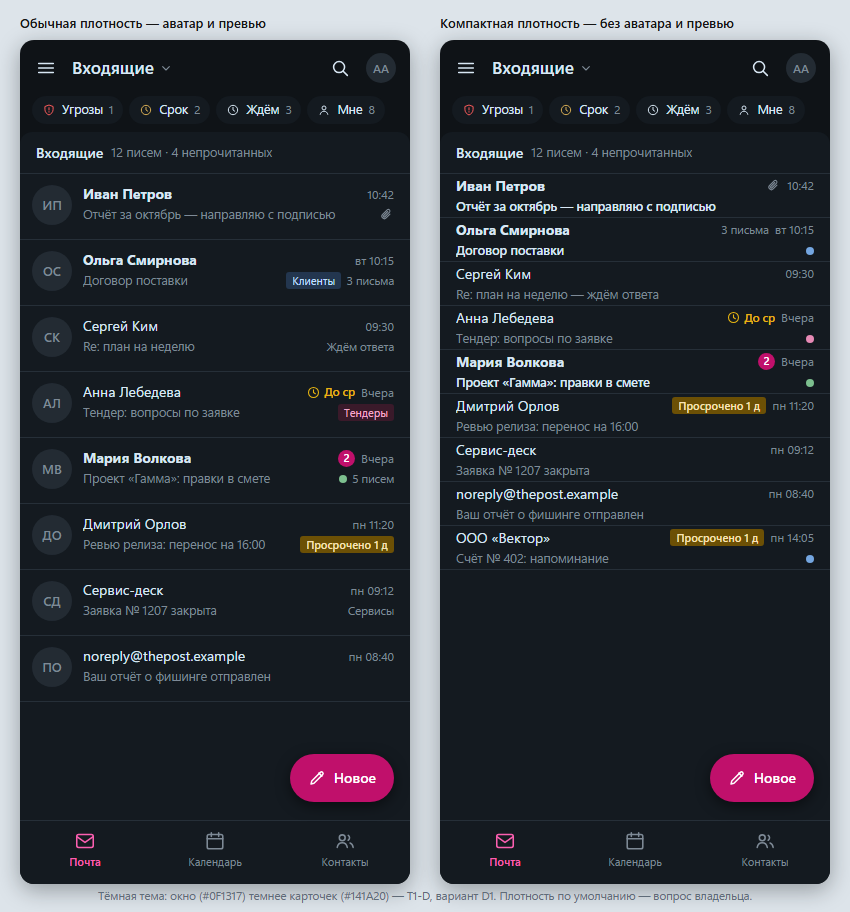
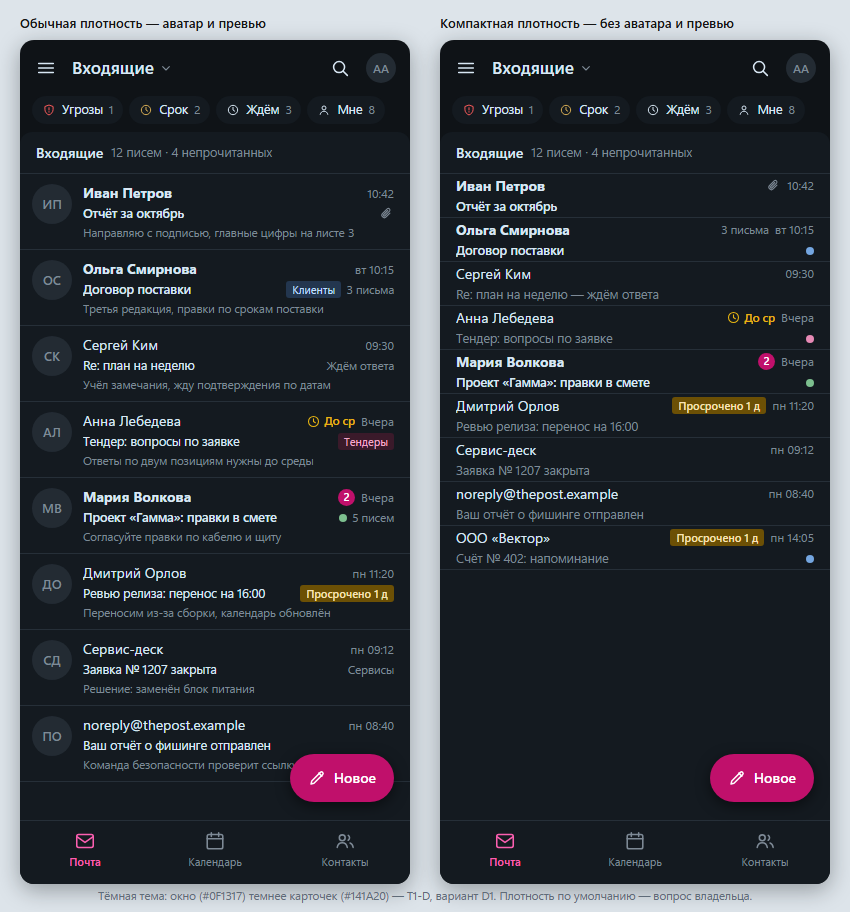
WEB-дизайн: правки по визуальной приёмке — итог таблицы, линия «сейчас» акцентом, вложение и превью плотностей
1) «Монтаж, этап 1» 300 000,00: строки таблицы сходятся с «Итого 454 260,00» (кадры 01, 02, 03, 05). 2) Линия «сейчас 13:20» в ленте дня — акцентом (светлая #E3107F, тёмная приглушённая #D2569A), не красная: красный остался только на безопасности (кадры 01, 03). 3) Кадр 05: вложение «Договор_поставки_ред3.docx» (как в 01), линия «сейчас» добавлена в мобильную ленту дня. 4) Кадр 06: «Обычная» — аватар, тема и текст превью; «Компактная» — только отправитель и тема. README обновлён.

diff --git a/docs/design/webmail/06-mobile-themes.html b/docs/design/webmail/06-mobile-themes.html
@@ -49,7 +49,7 @@ body{background:#DDE4EA;font:13px/1.4 "Segoe UI Variable Text","Segoe UI",-apple
 .lhead{height:42px;display:flex;align-items:center;gap:8px;padding:0 16px;border-bottom:1px solid var(--div);font-weight:600;font-size:14px;flex:none;white-space:nowrap}
 .lhead .sec{color:var(--t2);font-weight:400;font-size:12.5px;flex:1;min-width:0;overflow:hidden;text-overflow:ellipsis}
 .rows{flex:1;overflow:hidden}
-.msg{border-bottom:1px solid var(--div);display:flex;gap:11px;align-items:flex-start;padding:10px 16px 10px 12px;height:66px}
+.msg{border-bottom:1px solid var(--div);display:flex;gap:11px;align-items:flex-start;padding:9px 16px 9px 12px;height:76px}
 .msg .ava{width:40px;height:40px;border-radius:20px;background:var(--fill);color:var(--t2);font-size:13px;font-weight:600;display:flex;align-items:center;justify-content:center;flex:none;margin-top:1px}
 .msg .mid{flex:1;min-width:0}
 .msg .l1{display:flex;align-items:center;gap:6px;height:20px}
@@ -57,6 +57,9 @@ body{background:#DDE4EA;font:13px/1.4 "Segoe UI Variable Text","Segoe UI",-apple
 .msg.unread .l1 .from{font-weight:700}
 .msg .l1 .time{color:var(--t2);font-size:12px;flex:none}
 .msg .l2{display:flex;align-items:center;gap:6px;margin-top:2px}
+.msg .l3{display:block;color:var(--t2);font-size:11.5px;line-height:15px;margin-top:2px;white-space:nowrap;overflow:hidden;text-overflow:ellipsis}
+.msg .thm{color:var(--t1);font-size:12.5px;flex:1;min-width:0;white-space:nowrap;overflow:hidden;text-overflow:ellipsis}
+.msg.unread .thm{font-weight:600}
 .msg .subj{color:var(--t2);font-size:12.5px;flex:1;min-width:0;white-space:nowrap;overflow:hidden;text-overflow:ellipsis}
 .msg .ends{display:flex;align-items:center;gap:5px;flex:none}
 .msg .st{color:var(--t2);font-size:11.5px}
@@ -122,56 +125,64 @@ body{background:#DDE4EA;font:13px/1.4 "Segoe UI Variable Text","Segoe UI",-apple
         <span class="ava">ИП</span>
         <span class="mid">
           <span class="l1"><span class="from">Иван Петров</span><span class="time">10:42</span></span>
-          <span class="l2"><span class="subj">Отчёт за октябрь — направляю с подписью</span><span class="ends"><svg class="i xs" style="color:var(--t2)"><use href="#i-clip"/></svg></span></span>
+          <span class="l2"><span class="thm">Отчёт за октябрь</span><span class="ends"><svg class="i xs" style="color:var(--t2)"><use href="#i-clip"/></svg></span></span>
+          <span class="l3">Направляю с подписью, главные цифры на листе 3</span>
         </span>
       </div>
       <div class="msg unread">
         <span class="ava">ОС</span>
         <span class="mid">
           <span class="l1"><span class="from">Ольга Смирнова</span><span class="time">вт 10:15</span></span>
-          <span class="l2"><span class="subj">Договор поставки</span><span class="ends"><span class="chip" style="--cchip-bg:var(--catblue-bg);--cchip-tx:var(--catblue-tx)">Клиенты</span><span class="st">3 письма</span></span></span>
+          <span class="l2"><span class="thm">Договор поставки</span><span class="ends"><span class="chip" style="--cchip-bg:var(--catblue-bg);--cchip-tx:var(--catblue-tx)">Клиенты</span><span class="st">3 письма</span></span></span>
+          <span class="l3">Третья редакция, правки по срокам поставки</span>
         </span>
       </div>
       <div class="msg">
         <span class="ava">СК</span>
         <span class="mid">
           <span class="l1"><span class="from">Сергей Ким</span><span class="time">09:30</span></span>
-          <span class="l2"><span class="subj">Re: план на неделю</span><span class="ends"><span class="st">Ждём ответа</span></span></span>
+          <span class="l2"><span class="thm">Re: план на неделю</span><span class="ends"><span class="st">Ждём ответа</span></span></span>
+          <span class="l3">Учёл замечания, жду подтверждения по датам</span>
         </span>
       </div>
       <div class="msg">
         <span class="ava">АЛ</span>
         <span class="mid">
           <span class="l1"><span class="from">Анна Лебедева</span><span class="duelbl"><svg class="i xs"><use href="#i-clock"/></svg>До ср</span><span class="time">Вчера</span></span>
-          <span class="l2"><span class="subj">Тендер: вопросы по заявке</span><span class="ends"><span class="chip" style="--cchip-bg:var(--tint);--cchip-tx:var(--tinttext)">Тендеры</span></span></span>
+          <span class="l2"><span class="thm">Тендер: вопросы по заявке</span><span class="ends"><span class="chip" style="--cchip-bg:var(--tint);--cchip-tx:var(--tinttext)">Тендеры</span></span></span>
+          <span class="l3">Ответы по двум позициям нужны до среды</span>
         </span>
       </div>
       <div class="msg unread">
         <span class="ava">МВ</span>
         <span class="mid">
           <span class="l1"><span class="from">Мария Волкова</span><span class="unread-badge">2</span><span class="time">Вчера</span></span>
-          <span class="l2"><span class="subj">Проект «Гамма»: правки в смете</span><span class="ends"><span class="catdot" style="background:var(--igreen)"></span><span class="st">5 писем</span></span></span>
+          <span class="l2"><span class="thm">Проект «Гамма»: правки в смете</span><span class="ends"><span class="catdot" style="background:var(--igreen)"></span><span class="st">5 писем</span></span></span>
+          <span class="l3">Согласуйте правки по кабелю и щиту</span>
         </span>
       </div>
       <div class="msg">
         <span class="ava">ДО</span>
         <span class="mid">
           <span class="l1"><span class="from">Дмитрий Орлов</span><span class="time">пн 11:20</span></span>
-          <span class="l2"><span class="subj">Ревью релиза: перенос на 16:00</span><span class="ends"><span class="chip due">Просрочено 1 д</span></span></span>
+          <span class="l2"><span class="thm">Ревью релиза: перенос на 16:00</span><span class="ends"><span class="chip due">Просрочено 1 д</span></span></span>
+          <span class="l3">Переносим из-за сборки, календарь обновлён</span>
         </span>
       </div>
       <div class="msg">
         <span class="ava">СД</span>
         <span class="mid">
           <span class="l1"><span class="from">Сервис-деск</span><span class="time">пн 09:12</span></span>
-          <span class="l2"><span class="subj">Заявка № 1207 закрыта</span><span class="ends"><span class="st">Сервисы</span></span></span>
+          <span class="l2"><span class="thm">Заявка № 1207 закрыта</span><span class="ends"><span class="st">Сервисы</span></span></span>
+          <span class="l3">Решение: заменён блок питания</span>
         </span>
       </div>
       <div class="msg">
         <span class="ava">ПО</span>
         <span class="mid">
           <span class="l1"><span class="from">noreply@thepost.example</span><span class="time">пн 08:40</span></span>
-          <span class="l2"><span class="subj">Ваш отчёт о фишинге отправлен</span></span>
+          <span class="l2"><span class="thm">Ваш отчёт о фишинге отправлен</span></span>
+          <span class="l3">Команда безопасности проверит ссылку</span>
         </span>
       </div>
     </div>
@@ -204,7 +215,7 @@ body{background:#DDE4EA;font:13px/1.4 "Segoe UI Variable Text","Segoe UI",-apple
       <div class="msg unread">
         <span class="mid">
           <span class="l1"><span class="from">Иван Петров</span><svg class="i xs" style="color:var(--t2)"><use href="#i-clip"/></svg><span class="time">10:42</span></span>
-          <span class="l2"><span class="subj">Отчёт за октябрь — направляю с подписью</span></span>
+          <span class="l2"><span class="subj">Отчёт за октябрь</span></span>
         </span>
       </div>
       <div class="msg unread">

diff --git a/docs/design/webmail/05-reading-mobile.html b/docs/design/webmail/05-reading-mobile.html
@@ -40,7 +40,7 @@ body{
 .read{flex:1;background:var(--panel);border-radius:12px 12px 0 0;overflow:hidden;display:flex;flex-direction:column;min-height:0}
 
 /* полосы безопасности */
-.strip{min-height:30px;border-radius:6px;display:flex;align-items:center;gap:8px;padding:5px 10px;margin:8px 12px 0;font-size:12.5px;flex:none}
+.strip{min-height:30px;border-radius:6px;display:flex;align-items:center;gap:8px;padding:5px 10px;margin:6px 12px 0;font-size:12.5px;flex:none}
 .strip b{font-weight:600}
 .strip .sp{flex:1}
 .strip .lk{color:var(--acc);font-weight:600;white-space:nowrap}
@@ -50,24 +50,24 @@ body{
 .strip.threat .i{color:var(--threattx)}
 
 /* шапка письма */
-.mhead{display:flex;align-items:flex-start;gap:10px;padding:12px 16px 8px;flex:none}
+.mhead{display:flex;align-items:flex-start;gap:10px;padding:10px 16px 6px;flex:none}
 .ava{width:36px;height:36px;border-radius:18px;background:var(--fill);color:var(--t2);font-size:13px;font-weight:600;display:flex;align-items:center;justify-content:center;flex:none}
 .mhead .who{flex:1;min-width:0;line-height:18px}
 .mhead .who b{font-weight:600}
 .mhead .meta{color:var(--t2);font-size:12px;white-space:nowrap;overflow:hidden;text-overflow:ellipsis}
 .mhead .time{color:var(--t2);font-size:12px;white-space:nowrap}
-.tags{display:flex;align-items:center;gap:6px;padding:0 16px 8px;flex:none}
+.tags{display:flex;align-items:center;gap:6px;padding:0 16px 6px;flex:none}
 .chip{font-size:11px;padding:1px 6px;border-radius:3px;background:var(--cchip-bg);color:var(--cchip-tx);white-space:nowrap;flex:none}
 .chip.n{background:var(--fill);color:var(--t2)}
 
 /* вложения */
-.atts{display:flex;gap:6px;padding:0 16px 8px;flex:none}
+.atts{display:flex;flex-wrap:wrap;gap:6px;padding:2px 16px 6px;flex:none}
 .att{height:30px;display:flex;align-items:center;gap:6px;border:1px solid var(--stroke);border-radius:15px;padding:0 10px;font-size:12px;background:var(--panel)}
 .att .sz{color:var(--t2)}
 .att .i{width:14px;height:14px;color:var(--iblue)}
 
 /* карточка приглашения */
-.inv{border:1px solid var(--stroke);border-radius:10px;padding:9px 12px;margin:2px 12px 8px;background:var(--panel);flex:none}
+.inv{border:1px solid var(--stroke);border-radius:10px;padding:8px 12px;margin:2px 12px 6px;background:var(--panel);flex:none}
 .inv .ih{display:flex;align-items:center;gap:7px;margin-bottom:5px}
 .inv .ih .ttl{font-weight:600;font-size:13px;flex:1;min-width:0;white-space:nowrap;overflow:hidden;text-overflow:ellipsis}
 .inv .ih .i{width:16px;height:16px;color:var(--ipink)}
@@ -77,9 +77,11 @@ body{
 .day .lbl{width:74px;color:var(--t2);font-size:11.5px;padding-top:2px}
 .day .lbl b{color:var(--t1);font-weight:600;font-size:12px}
 .hours{display:flex;flex-direction:column;flex:1;border-left:1px solid var(--div);position:relative}
-.hrow{height:20px;border-top:1px solid var(--div);position:relative}
+.hrow{height:18px;border-top:1px solid var(--div);position:relative}
 .hrow:first-child{border-top:none}
 .hrow .hl{position:absolute;left:0;top:1px;font-size:9.5px;color:var(--t2);background:var(--panel);padding-right:3px;line-height:1}
+.nowline{position:absolute;left:0;right:0;height:0;border-top:1.5px solid var(--accbtn);z-index:2}
+.nowline::after{content:"13:20";position:absolute;left:30px;top:-7px;font-size:9px;color:var(--accbtn);background:var(--panel);padding-right:2px;line-height:1}
 .ev{position:absolute;left:40px;right:6px;border-radius:3px;font-size:10px;line-height:1.3;padding:0 5px;overflow:hidden;white-space:nowrap;text-overflow:ellipsis}
 .ev.own{background:var(--own);color:var(--t1)}
 .ev.invite{background:rgba(227,16,127,.16);border:1px dashed var(--accbtn);color:var(--acc);font-weight:600}
@@ -90,8 +92,8 @@ body{
 .ibtn .st-ic{width:15px;height:15px;border-radius:50%;border:1.3px solid currentColor;display:flex;align-items:center;justify-content:center;font-size:10px;line-height:1}
 
 /* тело письма */
-.bodym{flex:1;overflow:hidden;padding:2px 16px 8px;line-height:18px}
-.bodym p{margin:0 0 7px;font-size:13.5px}
+.bodym{flex:1;overflow:hidden;padding:2px 16px 6px;line-height:18px}
+.bodym p{margin:0 0 6px;font-size:13.5px}
 .bodym .sig{color:var(--t2);font-size:12.5px}
 table.spec{border-collapse:collapse;width:100%;margin:2px 0 8px;font-size:11.5px}
 table.spec th{background:var(--quiet);text-align:left;font-weight:600;padding:4px 7px;border:1px solid var(--div)}
@@ -159,7 +161,7 @@ table.spec tr.total td{font-weight:600;background:var(--quiet)}
   </div>
 
   <div class="atts">
-    <span class="att"><svg class="i"><use href="#i-doc"/></svg>Договор_ред3.docx<span class="sz">84 КБ</span></span>
+    <span class="att"><svg class="i"><use href="#i-doc"/></svg>Договор_поставки_ред3.docx<span class="sz">84 КБ</span></span>
     <span class="att"><svg class="i"><use href="#i-table"/></svg>Смета_2026.xlsx<span class="sz">22 КБ</span></span>
   </div>
 
@@ -170,16 +172,16 @@ table.spec tr.total td{font-weight:600;background:var(--quiet)}
     </div>
     <div class="det"><b>вт 24.11.2026 14:00–15:00</b> · Переговорная 4 · организатор: Ольга Смирнова · 2 из 5 приняли</div>
     <div class="day">
-      <div class="lbl"><b>Ваш день</b><br>12:00–18:00</div>
+      <div class="lbl"><b>Ваш день</b><br>12:00–16:00</div>
       <div class="hours">
         <div class="hrow"><span class="hl">12:00</span></div>
         <div class="hrow"><span class="hl">13:00</span></div>
         <div class="hrow"><span class="hl">14:00</span></div>
         <div class="hrow"><span class="hl">15:00</span></div>
         <div class="hrow"><span class="hl">16:00</span></div>
-        <div class="hrow"><span class="hl">17:00</span></div>
-        <div class="ev invite" style="top:40px;height:20px">Согласование договора · 14:00–15:00</div>
-        <div class="ev own" style="top:60px;height:20px">Ревью релиза · 15:00–16:00</div>
+        <div class="ev invite" style="top:36px;height:18px">Согласование договора · 14:00–15:00</div>
+        <div class="ev own" style="top:54px;height:18px">Ревью релиза · 15:00–16:00</div>
+        <div class="nowline" style="top:24px"></div>
       </div>
     </div>
     <div class="invacts">
@@ -191,13 +193,13 @@ table.spec tr.total td{font-weight:600;background:var(--quiet)}
 
   <div class="bodym">
     <p>Добрый день, Анна!</p>
-    <p>Направляю третью редакцию договора. Правка одна: кабель ВВГнг 3×2,5 — 1 200 м вместо 1 050. Спецификация:</p>
+    <p>Направляю третью редакцию договора. Правка одна: кабель — 1 200 м вместо 1 050. Спецификация:</p>
     <table class="spec">
       <tr><th>Позиция</th><th>Ед.</th><th class="r">Кол-во</th><th class="r">Сумма, ₽</th></tr>
       <tr><td>Кабель ВВГнг 3×2,5</td><td>м</td><td class="r">1 200</td><td class="r">115 680,00</td></tr>
       <tr><td>Автомат С16</td><td>шт</td><td class="r">48</td><td class="r">19 680,00</td></tr>
       <tr><td>Щит ЩРН-24</td><td>шт</td><td class="r">6</td><td class="r">18 900,00</td></tr>
-      <tr><td>Монтаж, этап 1</td><td>усл</td><td class="r">1</td><td class="r">240 000,00</td></tr>
+      <tr><td>Монтаж, этап 1</td><td>усл</td><td class="r">1</td><td class="r">300 000,00</td></tr>
       <tr class="total"><td>Итого</td><td></td><td class="r"></td><td class="r">454 260,00</td></tr>
     </table>
     <p>Жду замечания до среды.<br><span class="sig">Ольга Смирнова · ООО «Вектор»</span></p>

diff --git a/docs/design/webmail/01-mail-desktop.html b/docs/design/webmail/01-mail-desktop.html
@@ -163,8 +163,8 @@ body{
 .ev{position:absolute;left:52px;right:8px;border-radius:4px;font-size:11px;line-height:1.3;padding:1px 6px;overflow:hidden;white-space:nowrap;text-overflow:ellipsis}
 .ev.own{background:var(--own);color:var(--t1)}
 .ev.invite{background:rgba(227,16,127,.16);border:1px dashed var(--accbtn);color:var(--acc);font-weight:600}
-.nowline{position:absolute;left:0;right:0;height:0;border-top:1.5px solid var(--err);z-index:2}
-.nowline::after{content:"13:20";position:absolute;left:54px;top:-7px;font-size:10px;color:var(--err);background:var(--panel);padding-right:3px;line-height:1}
+.nowline{position:absolute;left:0;right:0;height:0;border-top:1.5px solid var(--selbar);z-index:2}
+.nowline::after{content:"13:20";position:absolute;left:54px;top:-7px;font-size:10px;color:var(--selbar);background:var(--panel);padding-right:3px;line-height:1}
 .invacts{display:flex;align-items:center;gap:8px}
 .ibtn{height:28px;padding:0 12px;border-radius:4px;display:flex;align-items:center;gap:7px;font-weight:600}
 .ibtn.acc{background:var(--accbtn);color:#fff}
@@ -406,7 +406,7 @@ table.spec tr.total td{font-weight:600;background:var(--hover)}
         <tr><td>Кабель ВВГнг 3×2,5</td><td>м</td><td class="r">1 200</td><td class="r">96,40</td><td class="r">115 680,00</td></tr>
         <tr><td>Автомат С16</td><td>шт</td><td class="r">48</td><td class="r">410,00</td><td class="r">19 680,00</td></tr>
         <tr><td>Щит ЩРН-24</td><td>шт</td><td class="r">6</td><td class="r">3 150,00</td><td class="r">18 900,00</td></tr>
-        <tr><td>Монтаж, этап 1</td><td>усл</td><td class="r">1</td><td class="r">240 000,00</td><td class="r">240 000,00</td></tr>
+        <tr><td>Монтаж, этап 1</td><td>усл</td><td class="r">1</td><td class="r">300 000,00</td><td class="r">300 000,00</td></tr>
         <tr class="total"><td>Итого</td><td></td><td class="r"></td><td class="r"></td><td class="r">454 260,00</td></tr>
       </table>
       <p>Жду замечания до среды, 22.11 — после этого уходим на подписание.<br><span class="sig">Ольга Смирнова · ООО «Вектор» · +7 912 000-00-00</span></p>

diff --git a/docs/design/webmail/03-mail-desktop-dark.html b/docs/design/webmail/03-mail-desktop-dark.html
@@ -167,8 +167,8 @@ body{
 .ev{position:absolute;left:52px;right:8px;border-radius:4px;font-size:11px;line-height:1.3;padding:1px 6px;overflow:hidden;white-space:nowrap;text-overflow:ellipsis}
 .ev.own{background:var(--own);color:var(--t1)}
 .ev.invite{background:rgba(227,16,127,.16);border:1px dashed var(--accbtn);color:var(--acc);font-weight:600}
-.nowline{position:absolute;left:0;right:0;height:0;border-top:1.5px solid var(--err);z-index:2}
-.nowline::after{content:"13:20";position:absolute;left:54px;top:-7px;font-size:10px;color:var(--err);background:var(--panel);padding-right:3px;line-height:1}
+.nowline{position:absolute;left:0;right:0;height:0;border-top:1.5px solid var(--selbar);z-index:2}
+.nowline::after{content:"13:20";position:absolute;left:54px;top:-7px;font-size:10px;color:var(--selbar);background:var(--panel);padding-right:3px;line-height:1}
 .invacts{display:flex;align-items:center;gap:8px}
 .ibtn{height:28px;padding:0 12px;border-radius:4px;display:flex;align-items:center;gap:7px;font-weight:600}
 .ibtn.acc{background:var(--accbtn);color:#fff}
@@ -413,7 +413,7 @@ table.spec tr.total td{font-weight:600;background:var(--hover)}
         <tr><td>Кабель ВВГнг 3×2,5</td><td>м</td><td class="r">1 200</td><td class="r">96,40</td><td class="r">115 680,00</td></tr>
         <tr><td>Автомат С16</td><td>шт</td><td class="r">48</td><td class="r">410,00</td><td class="r">19 680,00</td></tr>
         <tr><td>Щит ЩРН-24</td><td>шт</td><td class="r">6</td><td class="r">3 150,00</td><td class="r">18 900,00</td></tr>
-        <tr><td>Монтаж, этап 1</td><td>усл</td><td class="r">1</td><td class="r">240 000,00</td><td class="r">240 000,00</td></tr>
+        <tr><td>Монтаж, этап 1</td><td>усл</td><td class="r">1</td><td class="r">300 000,00</td><td class="r">300 000,00</td></tr>
         <tr class="total"><td>Итого</td><td></td><td class="r"></td><td class="r"></td><td class="r">454 260,00</td></tr>
       </table>
       <p>Жду замечания до среды, 22.11 — после этого уходим на подписание.<br><span class="sig">Ольга Смирнова · ООО «Вектор» · +7 912 000-00-00</span></p>

diff --git a/docs/design/webmail/02-compose-desktop.html b/docs/design/webmail/02-compose-desktop.html
@@ -231,7 +231,7 @@ table.spec tr.total td{font-weight:600;background:var(--quiet)}
         <tr><td>Кабель ВВГнг 3×2,5</td><td>м</td><td class="r">1 200</td><td class="r">96,40</td><td class="r">115 680,00</td></tr>
         <tr><td>Автомат С16</td><td>шт</td><td class="r">48</td><td class="r">410,00</td><td class="r">19 680,00</td></tr>
         <tr><td>Щит ЩРН-24</td><td>шт</td><td class="r">6</td><td class="r">3 150,00</td><td class="r">18 900,00</td></tr>
-        <tr><td>Монтаж, этап 1</td><td>усл</td><td class="r">1</td><td class="r">240 000,00</td><td class="r">240 000,00</td></tr>
+        <tr><td>Монтаж, этап 1</td><td>усл</td><td class="r">1</td><td class="r">300 000,00</td><td class="r">300 000,00</td></tr>
         <tr class="total"><td>Итого</td><td></td><td class="r"></td><td class="r"></td><td class="r">454 260,00</td></tr>
       </table>
       <p>Если правки подходят — подписываем и я выставляю счёт № 419.<br><span class="sig">— Анна Антропова · Группа снабжения · thepost.example · +7 495 120-00-00</span></p>

diff --git a/docs/design/webmail/README.md b/docs/design/webmail/README.md
@@ -18,8 +18,8 @@
 | `02-compose-desktop.png` (+ `.html`) | Композер — вкладкой, не окном: получатели-чипы с автодополнением из справочника и контактов, таблица в теле (живой Markdown, знаки разметки приглушённо), чипы вложений, подпись, тост «Письмо отправлено · Отменить» — inline-элемент внизу справа, не модалка |
 | `03-mail-desktop-dark.png` (+ `.html`) | Та же три-панель в тёмной теме — проверка токенов: окно темнее карточек (T1-D, D1), приглушённые категории, тёмные подложки угрозы и сроков |
 | `04-mail-mobile-list.png` (+ `.html`) | Мобильный Outlook-паттерн: верхняя строка (папки-меню, название, поиск), hint pull-to-refresh, чипы быстрых фильтров (горизонтальная прокрутка), список стеком, на одной строке — подложки свайпов «Архив / Флаг / Удалить», FAB «Новое», нижняя навигация Почта / Календарь / Контакты |
-| `05-reading-mobile.png` (+ `.html`) | Письмо «страницей» с возвратом: баннер картинок и подменённая ссылка, карточка приглашения с компактной лентой дня и ответом, таблица, нижняя панель действий «Удалить / В архив / Флаг / Ответить» |
-| `06-mobile-themes.png` (+ `.html`) | Мобильный список в тёмной теме, два экрана рядом: плотность «Обычная» (аватар и превью) и «Компактная» (без аватара и превью) — наглядно для выбора плотности по умолчанию |
+| `05-reading-mobile.png` (+ `.html`) | Письмо «страницей» с возвратом: баннер картинок и подменённая ссылка, карточка приглашения с компактной лентой дня (линия «сейчас» 13:20 акцентом) и ответом, вложение «Договор_поставки_ред3.docx», таблица, нижняя панель действий «Удалить / В архив / Флаг / Ответить» |
+| `06-mobile-themes.png` (+ `.html`) | Мобильный список в тёмной теме, два экрана рядом: плотность «Обычная» (аватар, тема и текст превью) и «Компактная» (без аватара и превью — только отправитель и тема) — наглядно для выбора плотности по умолчанию |
 
 ## Где какие правила DESIGN.md применены
 
@@ -29,9 +29,9 @@
 - **Строка письма и метки**: имя отправителя, время справа; метки справа, категория первой; цветная полоса категории слева; регистр меток — с заглавной только первое слово («Ждём ответа»); срок впереди — янтарный текст с часами без подложки («До ср»), просрочено — плотная янтарная заливка («Просрочено 1 д»); «Ждём ответа» — нейтральный серый — кадры 01, 04–06.
 - **Быстрые фильтры** — порядок по срочности «Угрозы → Срок → Ждём → Мне → Истекают», равная ширина; значки: щит с красным только у «Угроз», часы янтарные у «Срок»/«Истекают» — кадры 01 (закладки поверх нижнего края карточки списка), 04/06 (чипы с горизонтальной прокруткой).
 - **Беседы** — в списке поток свёрнут в строку со счётчиком («3 письма», «5 писем»); в панели чтения — строка «Беседа: N писем · участников · Развернуть все» (кадр 01).
-- **Приглашение в письме** — карточка над телом: детали (дата, время, место, организатор, «2 из 5 приняли»), лента «Ваш день» (свои события серые, приглашение — полупрозрачный акцент с пунктиром, пока нет ответа; линия «сейчас»), кнопки «Принять» (заливка) / «Под вопросом» / «Отклонить» (тонированные) со значками ✓ ? ✕ в круге, подпись «Ответ уйдёт через календарь сервера» — кадры 01 (вертикальная лента дня, как в Г1) и 05 (компактная).
+- **Приглашение в письме** — карточка над телом: детали (дата, время, место, организатор, «2 из 5 приняли»), лента «Ваш день» (свои события серые, приглашение — полупрозрачный акцент с пунктиром, пока нет ответа; линия «сейчас» — акцентом, не красная), кнопки «Принять» (заливка) / «Под вопросом» / «Отклонить» (тонированные) со значками ✓ ? ✕ в круге, подпись «Ответ уйдёт через календарь сервера» — кадры 01 (вертикальная лента дня, как в Г1) и 05 (компактная).
 - **HTML-письма** — внешние картинки по умолчанию скрыты (баннер с «Загрузить / Всегда для отправителя»); несовпадение текста и адреса ссылки — предупреждение; красная подложка — потому что это безопасность — кадры 01, 05.
-- **Цвет**: главное действие — заливка акцентом; второстепенные кнопки — тонированные без рамки («Сохранить черновик», «Под вопросом», «Отклонить»); красный — только безопасность (полоса подменённой ссылки, щит «Угроз», линия «сейчас»); янтарный — только сроки; категория — точка/подложка/текст одного оттенка; тёмная тема — яркие цвета приглушены (акцентная кнопка темнее, текстовый акцент светлее) — все кадры.
+- **Цвет**: главное действие — заливка акцентом; второстепенные кнопки — тонированные без рамки («Сохранить черновик», «Под вопросом», «Отклонить»); красный — только безопасность (полоса подменённой ссылки, щит «Угроз»); линия «сейчас» в ленте дня — акцентом, не красная; янтарный — только сроки; категория — точка/подложка/текст одного оттенка; тёмная тема — яркие цвета приглушены (акцентная кнопка темнее, текстовый акцент светлее) — все кадры.
 - **Выделенная строка списка** — тон акцента приглушённый + полоса акцента слева; вторичный текст на выделенной строке проверен на контраст ≥ 4,5:1 (кадры 01, 03; T1-D, вариант B).
 - **Тёмная тема: окно темнее карточек** — кадры 03, 06 (T1-D, вариант D1: #0F1317 окно, #141A20 карточки).
 - **Плотности** — «Обычная» (аватар, превью) и «Компактная» (без аватара и превью) — кадр 06.
